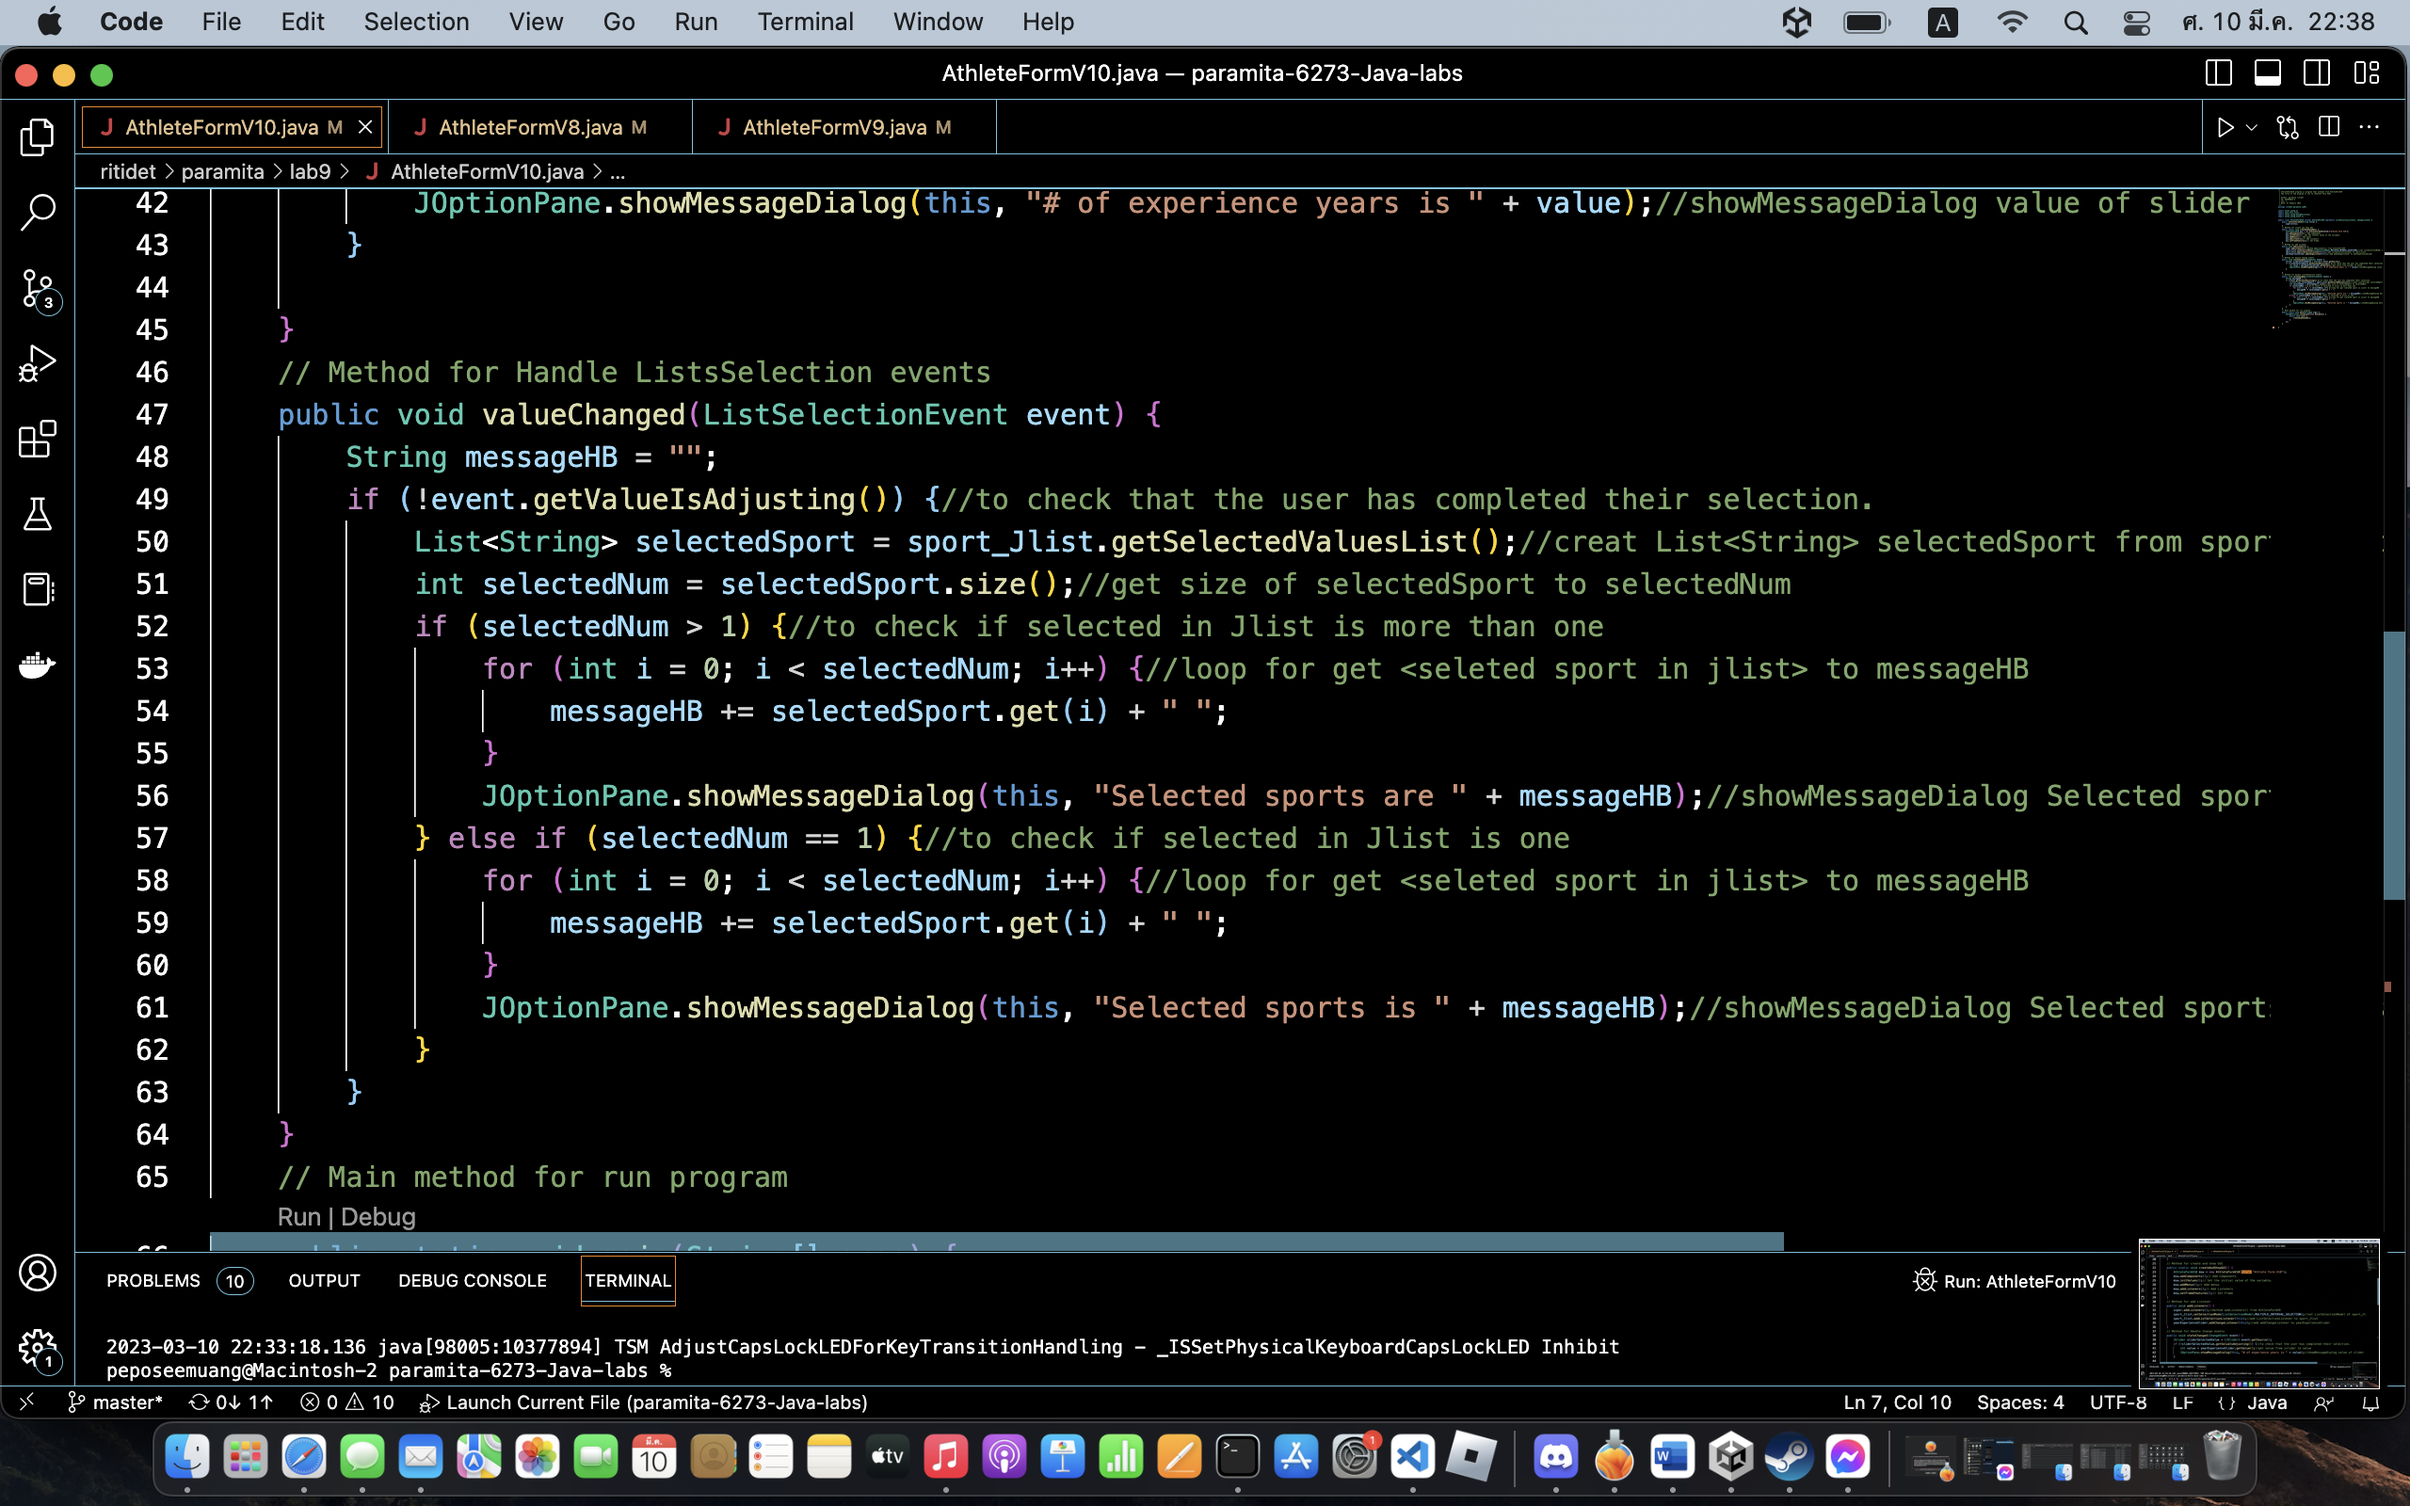
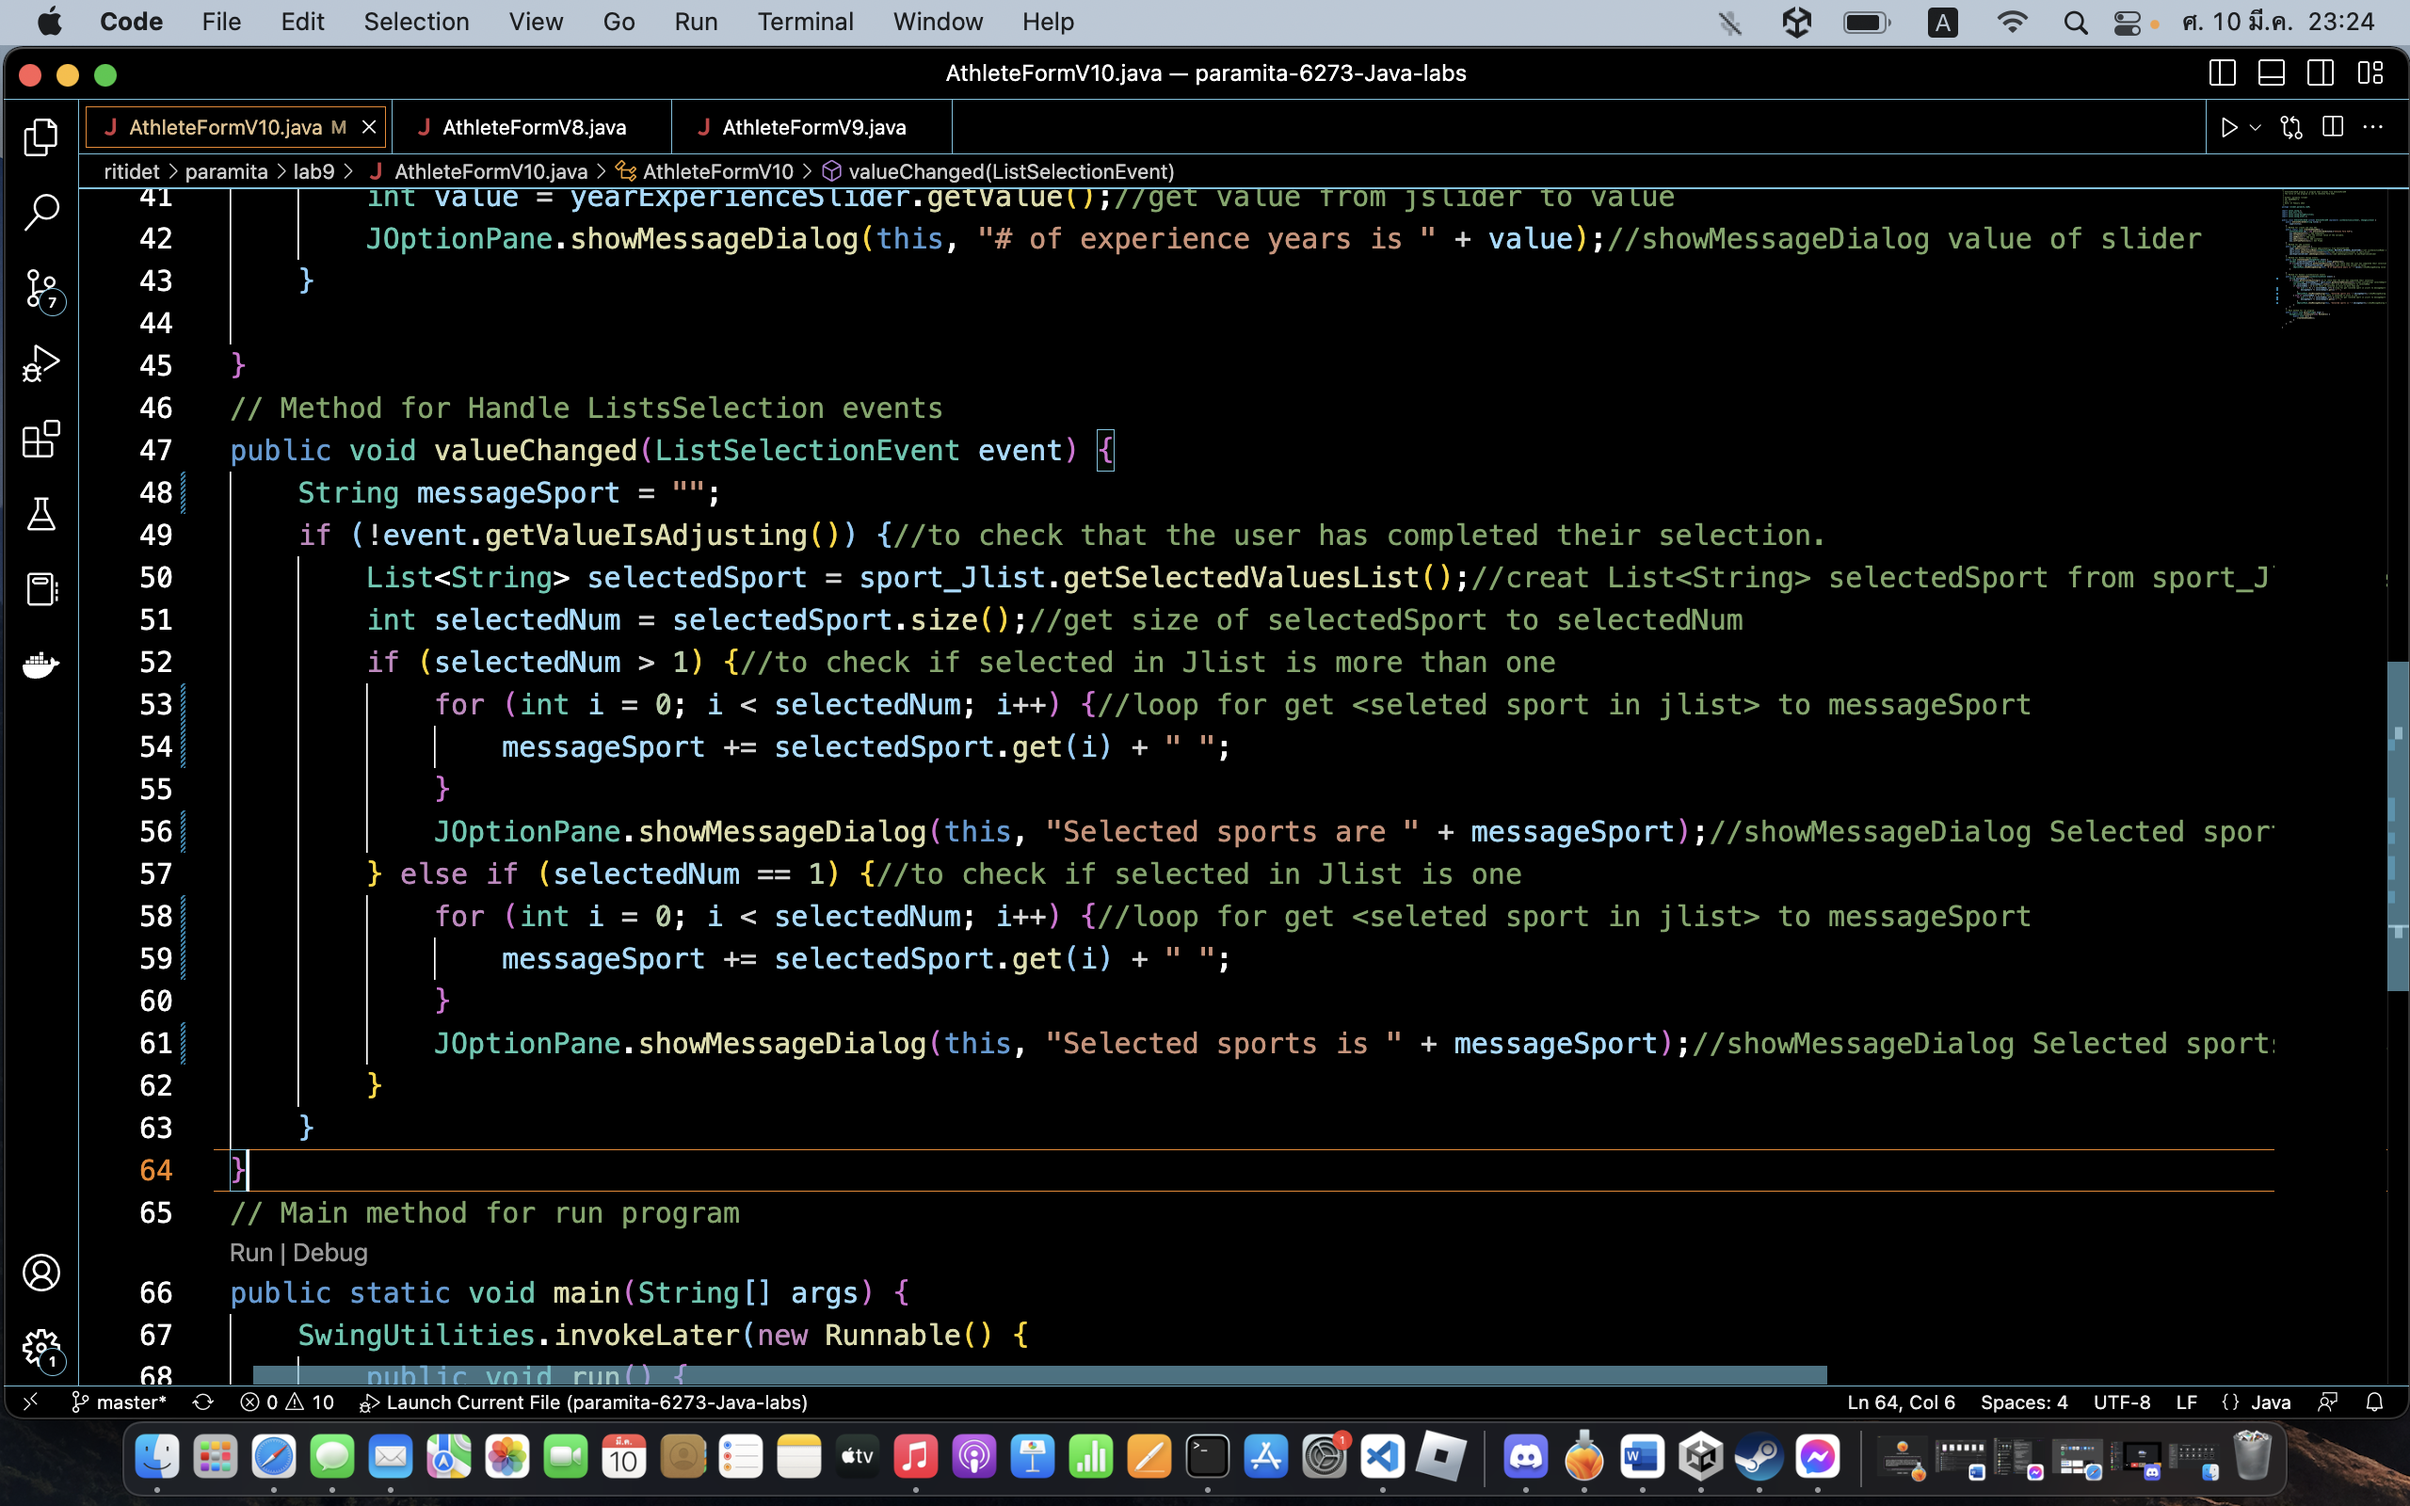
fix AthleteFormV10 and output

diff --git a/ritidet/paramita/lab9/AthleteFormV10.java b/ritidet/paramita/lab9/AthleteFormV10.java
@@ -45,20 +45,20 @@ public class AthleteFormV10 extends AthleteFormV9 implements ListSelectionListen
     }
     // Method for Handle ListsSelection events
     public void valueChanged(ListSelectionEvent event) {
-        String messageHB = "";
+        String messageSport = "";
         if (!event.getValueIsAdjusting()) {//to check that the user has completed their selection.
             List<String> selectedSport = sport_Jlist.getSelectedValuesList();//creat List<String> selectedSport from sport_Jlist.getSelectedValuesList()
             int selectedNum = selectedSport.size();//get size of selectedSport to selectedNum
             if (selectedNum > 1) {//to check if selected in Jlist is more than one 
-                for (int i = 0; i < selectedNum; i++) {//loop for get <seleted sport in jlist> to messageHB
-                    messageHB += selectedSport.get(i) + " ";
+                for (int i = 0; i < selectedNum; i++) {//loop for get <seleted sport in jlist> to messageSport
+                    messageSport += selectedSport.get(i) + " ";
                 }
-                JOptionPane.showMessageDialog(this, "Selected sports are " + messageHB);//showMessageDialog Selected sports are <seleted sport in jlist>
+                JOptionPane.showMessageDialog(this, "Selected sports are " + messageSport);//showMessageDialog Selected sports are <seleted sport in jlist>
             } else if (selectedNum == 1) {//to check if selected in Jlist is one 
-                for (int i = 0; i < selectedNum; i++) {//loop for get <seleted sport in jlist> to messageHB
-                    messageHB += selectedSport.get(i) + " ";
+                for (int i = 0; i < selectedNum; i++) {//loop for get <seleted sport in jlist> to messageSport
+                    messageSport += selectedSport.get(i) + " ";
                 }
-                JOptionPane.showMessageDialog(this, "Selected sports is " + messageHB);//showMessageDialog Selected sports is <seleted sport in jlist>
+                JOptionPane.showMessageDialog(this, "Selected sports is " + messageSport);//showMessageDialog Selected sports is <seleted sport in jlist>
             }
         }
     }
